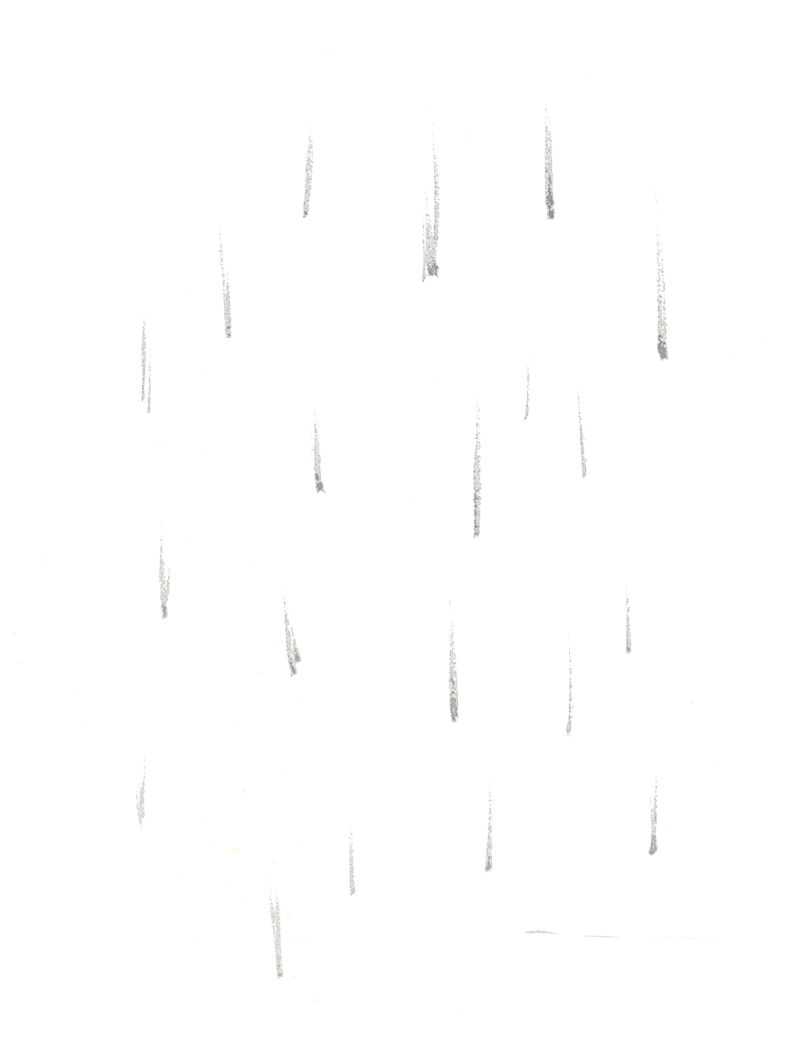
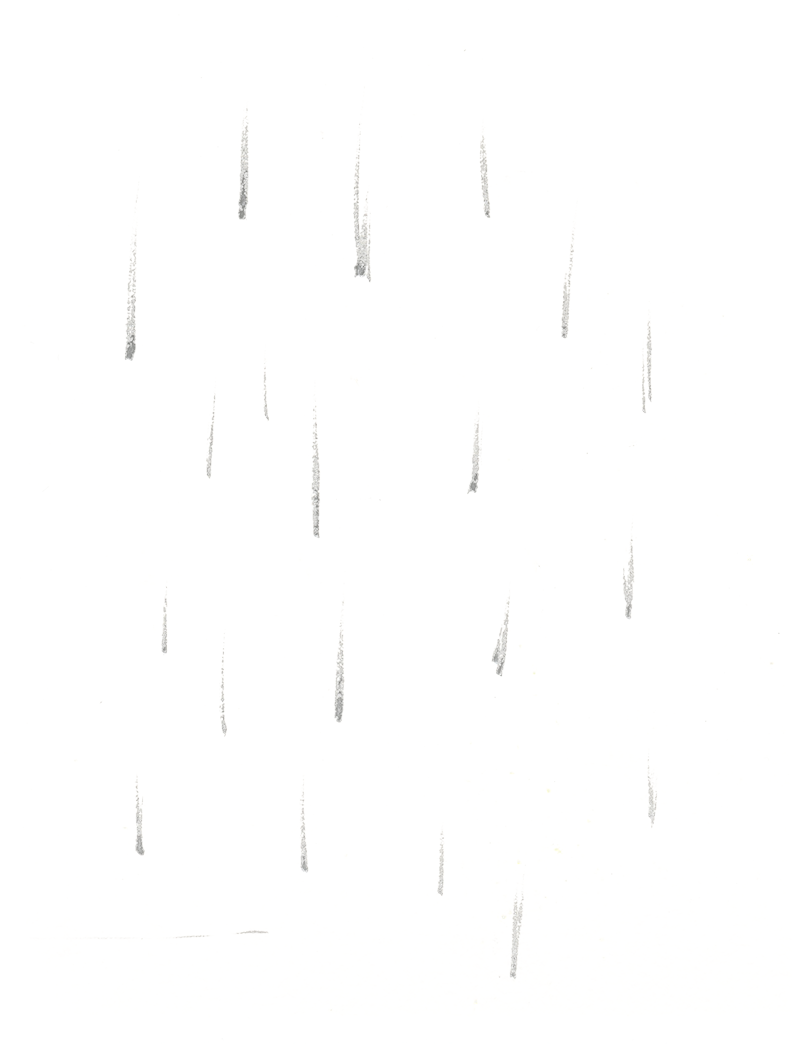
completed main animation

diff --git a/src/components/Book.js b/src/components/Book.js
@@ -104,7 +104,7 @@ class Book extends React.Component {
 					y: '10%'
 				},
 				{
-					src: 'ground-2.png',
+					src: 'ground-1.png',
 					width: '100%',
 					bottom: true
 				}
@@ -119,7 +119,13 @@ class Book extends React.Component {
 					y: '10%'
 				},
 				{
-					src: 'ground-3.png',
+					src: 'rain-4.png',
+					width: '20%',
+					x: '75%',
+					y: '30%'
+				},
+				{
+					src: 'ground-1.png',
 					width: '100%',
 					bottom: true
 				}
@@ -130,11 +136,17 @@ class Book extends React.Component {
 				{
 					src: 'rain-cloud3.png',
 					width: '35%',
-					x: '55%',
+					x: '57%',
 					y: '10%'
 				},
 				{
-					src: 'ground-4.png',
+					src: 'rain-2.png',
+					width: '30%',
+					x: '57%',
+					y: '27%'
+				},
+				{
+					src: 'ground-2.png',
 					width: '100%',
 					bottom: true
 				}
@@ -147,6 +159,12 @@ class Book extends React.Component {
 					width: '35%',
 					x: '35%',
 					y: '10%'
+				},
+				{
+					src: 'rain-1.png',
+					width: '30%',
+					x: '38%',
+					y: '28%'
 				},
 				{
 					src: 'ground-5.png',
@@ -168,6 +186,12 @@ class Book extends React.Component {
 					width: '35%',
 					x: '15%',
 					y: '10%'
+				},
+				{
+					src: 'rain-2.png',
+					width: '30%',
+					x: '18%',
+					y: '28%'
 				},
 				{
 					src: 'ground-4.png',
@@ -192,7 +216,7 @@ class Book extends React.Component {
 				{
 					src: 'sprout-3.png',
 					width: '5%',
-					x: '56%',
+					x: '55%',
 					y: '66%'
 				}
 			],
@@ -207,8 +231,8 @@ class Book extends React.Component {
 				{
 					src: 'sprout-4.png',
 					width: '9%',
-					x: '55%',
-					y: '66.5%'
+					x: '54.5%',
+					y: '65%'
 				}
 			],
 
@@ -222,8 +246,38 @@ class Book extends React.Component {
 				{
 					src: 'sprout-5.png',
 					width: '12%',
-					x: '53.5%',
-					y: '61%'
+					x: '52%',
+					y: '63%'
+				}
+			],
+
+			//Frame 14
+			[
+				{
+					src: 'ground-1.png',
+					width: '100%',
+					bottom: true
+				},
+				{
+					src: 'teen-tree.png',
+					width: '12%',
+					x: '52%',
+					y: '33%'
+				}
+			],
+
+			//Frame 15
+			[
+				{
+					src: 'ground-1.png',
+					width: '100%',
+					bottom: true
+				},
+				{
+					src: 'mature-tree.png',
+					width: '55%',
+					x: '31%',
+					y: '9%'
 				}
 			],
 		];
